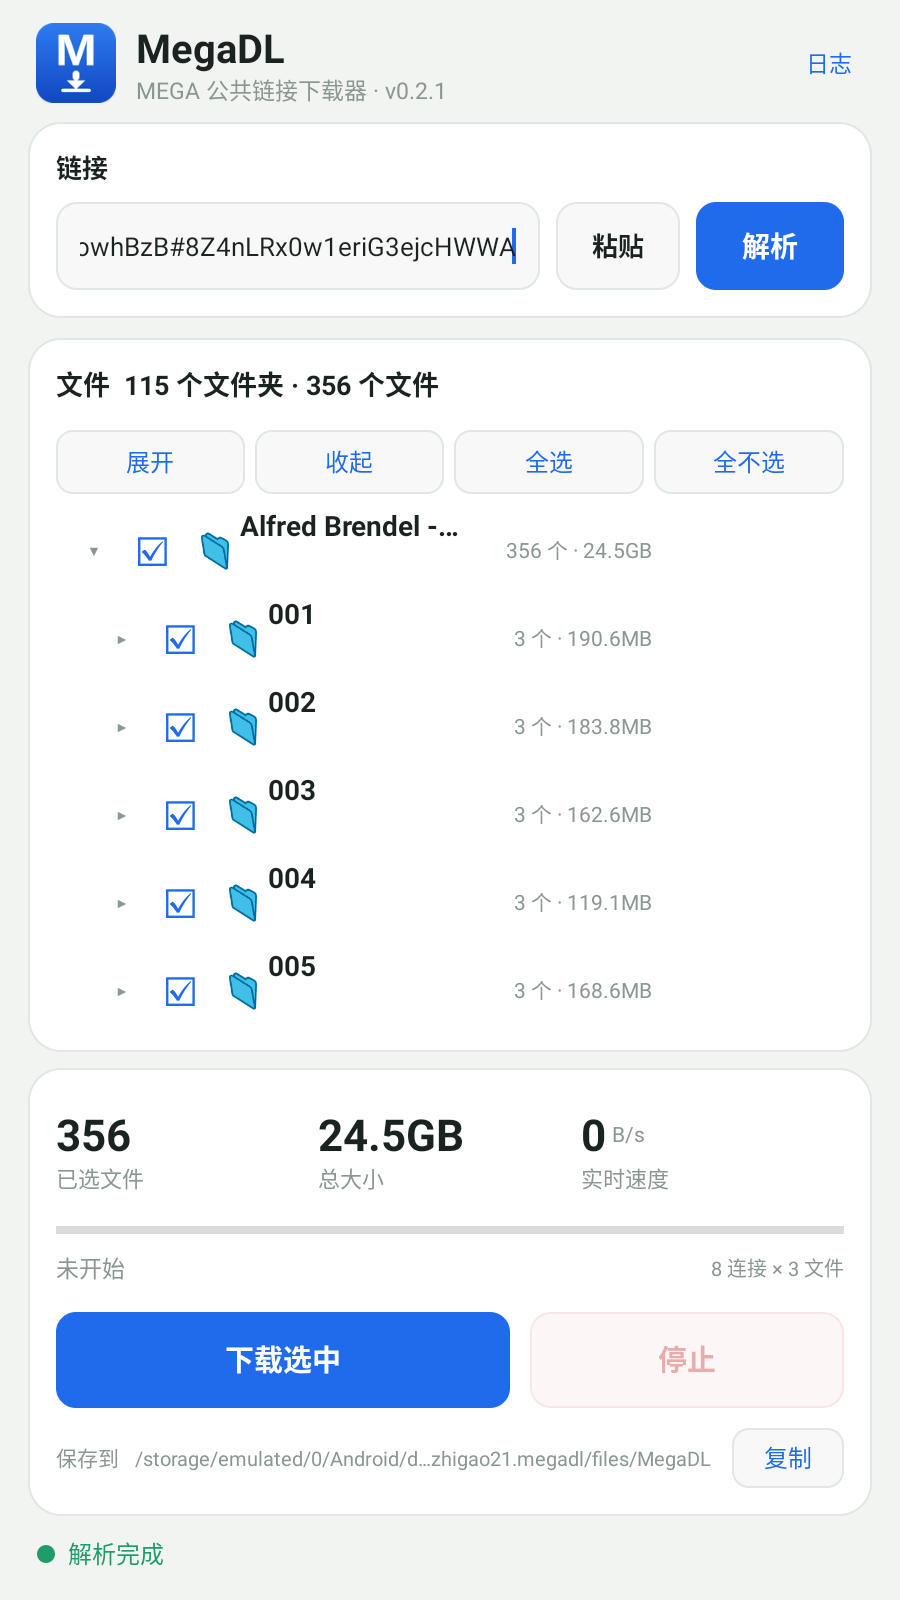
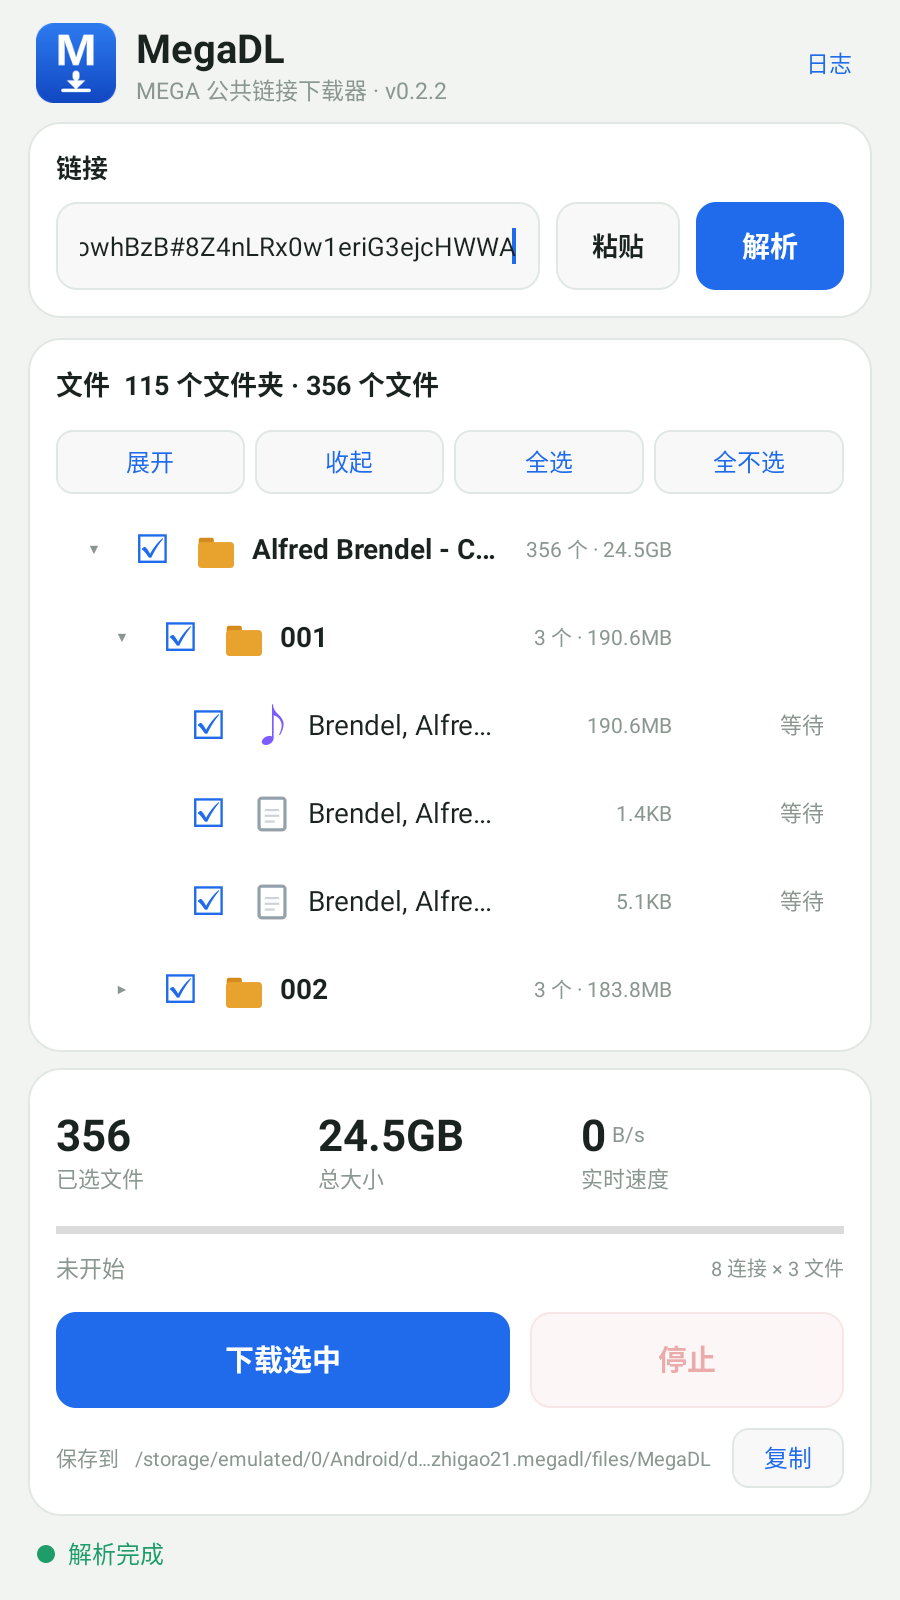
安卓界面 v0.2.2：自绘文件类型图标，修正文字对齐
弃用系统 emoji 图标（压缩包等字形在部分设备缺失），改为 Canvas 自绘文件夹/音频/视频/压缩包/图片/文档图标；TextView 关闭字体额外内边距并按行居中，文件名左移留出间距；大小与状态列再收窄，长文件名显示更完整。

diff --git a/android/src/com/weizhigao21/megadl/TreeAdapter.java b/android/src/com/weizhigao21/megadl/TreeAdapter.java
@@ -1,7 +1,11 @@
 package com.weizhigao21.megadl;
 
 import android.content.Context;
+import android.graphics.Canvas;
 import android.graphics.Color;
+import android.graphics.Paint;
+import android.graphics.Path;
+import android.graphics.RectF;
 import android.graphics.Typeface;
 import android.text.TextUtils;
 import android.view.Gravity;
@@ -105,7 +109,7 @@ public class TreeAdapter extends BaseAdapter {
         holder.arrow.setVisibility(node.dir ? View.VISIBLE : View.INVISIBLE);
         holder.check.setText(checkGlyph(node));
         holder.check.setTextColor(checkColor(node));
-        holder.icon.setText(iconFor(node));
+        holder.icon.setKind(iconKind(node));
         holder.name.setText(node.name);
         holder.name.setTypeface(Typeface.create("sans-serif", node.dir ? Typeface.BOLD : Typeface.NORMAL));
         holder.name.setTextColor(TEXT);
@@ -160,25 +164,26 @@ public class TreeAdapter extends BaseAdapter {
         h.check.setPadding(dp(2), 0, dp(2), 0);
         row.addView(h.check, new LinearLayout.LayoutParams(dp(36), dp(44)));
 
-        h.icon = textView(16, MUTED, false);
-        h.icon.setGravity(Gravity.CENTER);
-        row.addView(h.icon, new LinearLayout.LayoutParams(dp(26), dp(44)));
+        h.icon = new TypeIcon(context);
+        row.addView(h.icon, new LinearLayout.LayoutParams(dp(28), dp(44)));
 
         h.name = textView(14, TEXT, false);
         h.name.setSingleLine(true);
         h.name.setEllipsize(TextUtils.TruncateAt.END);
+        h.name.setGravity(Gravity.CENTER_VERTICAL);
         LinearLayout.LayoutParams nameLp = new LinearLayout.LayoutParams(0, dp(44), 1f);
+        nameLp.leftMargin = dp(4);
         row.addView(h.name, nameLp);
 
         h.size = textView(10.5f, MUTED, false);
         h.size.setGravity(Gravity.RIGHT | Gravity.CENTER_VERTICAL);
-        row.addView(h.size, new LinearLayout.LayoutParams(dp(92), dp(44)));
+        row.addView(h.size, new LinearLayout.LayoutParams(dp(84), dp(44)));
 
         h.state = textView(11, MUTED, false);
         h.state.setGravity(Gravity.RIGHT | Gravity.CENTER_VERTICAL);
         h.state.setSingleLine(true);
         h.state.setEllipsize(TextUtils.TruncateAt.END);
-        row.addView(h.state, new LinearLayout.LayoutParams(dp(86), dp(44)));
+        row.addView(h.state, new LinearLayout.LayoutParams(dp(76), dp(44)));
 
         return row;
     }
@@ -187,6 +192,7 @@ public class TreeAdapter extends BaseAdapter {
         TextView tv = new TextView(context);
         tv.setTextSize(size);
         tv.setTextColor(color);
+        tv.setIncludeFontPadding(false);
         if (bold) tv.setTypeface(Typeface.DEFAULT_BOLD);
         return tv;
     }
@@ -264,15 +270,14 @@ public class TreeAdapter extends BaseAdapter {
         }
     }
 
-    private String iconFor(MegaApi.Node node) {
-        if (node.dir) return "📁";
+    private String iconKind(MegaApi.Node node) {
+        if (node.dir) return TypeIcon.FOLDER;
         String lower = node.name.toLowerCase(java.util.Locale.US);
-        if (lower.endsWith(".mp3") || lower.endsWith(".flac") || lower.endsWith(".ape") || lower.endsWith(".wav")) return "🎵";
-        if (lower.endsWith(".mp4") || lower.endsWith(".mkv") || lower.endsWith(".avi")) return "🎬";
-        if (lower.endsWith(".zip") || lower.endsWith(".rar") || lower.endsWith(".7z")) return "🗜";
-        if (lower.endsWith(".jpg") || lower.endsWith(".png") || lower.endsWith(".webp")) return "🖼";
-        if (lower.endsWith(".txt") || lower.endsWith(".log") || lower.endsWith(".cue")) return "📄";
-        return "📄";
+        if (lower.endsWith(".mp3") || lower.endsWith(".flac") || lower.endsWith(".ape") || lower.endsWith(".wav")) return TypeIcon.AUDIO;
+        if (lower.endsWith(".mp4") || lower.endsWith(".mkv") || lower.endsWith(".avi")) return TypeIcon.VIDEO;
+        if (lower.endsWith(".zip") || lower.endsWith(".rar") || lower.endsWith(".7z")) return TypeIcon.ARCHIVE;
+        if (lower.endsWith(".jpg") || lower.endsWith(".png") || lower.endsWith(".webp")) return TypeIcon.IMAGE;
+        return TypeIcon.DOC;
     }
 
     private int dp(float v) {
@@ -283,9 +288,125 @@ public class TreeAdapter extends BaseAdapter {
         View spacer;
         TextView arrow;
         TextView check;
-        TextView icon;
+        TypeIcon icon;
         TextView name;
         TextView size;
         TextView state;
     }
+
+    /** 自绘类型图标，避免依赖系统 emoji 字体（部分机型压缩包等字形缺失）。 */
+    static class TypeIcon extends View {
+        static final String FOLDER = "folder";
+        static final String AUDIO = "audio";
+        static final String VIDEO = "video";
+        static final String ARCHIVE = "archive";
+        static final String IMAGE = "image";
+        static final String DOC = "doc";
+
+        private static final int C_FOLDER = Color.rgb(0xE8, 0xA2, 0x2E);
+        private static final int C_FOLDER_DARK = Color.rgb(0xD3, 0x8C, 0x1C);
+        private static final int C_DOC = Color.rgb(0x93, 0xA1, 0xAB);
+        private static final int C_AUDIO = Color.rgb(0x7C, 0x5C, 0xFF);
+        private static final int C_VIDEO = Color.rgb(0xDF, 0x5F, 0x58);
+        private static final int C_ARCHIVE = Color.rgb(0xA5, 0x77, 0x3D);
+        private static final int C_IMAGE = Color.rgb(0x2A, 0xA3, 0x6B);
+
+        private final Paint paint = new Paint(Paint.ANTI_ALIAS_FLAG);
+        private final Path path = new Path();
+        private final RectF rect = new RectF();
+        private final float d;
+        private String kind = DOC;
+
+        TypeIcon(Context context) {
+            super(context);
+            d = context.getResources().getDisplayMetrics().density;
+        }
+
+        void setKind(String k) {
+            if (!kind.equals(k)) {
+                kind = k;
+                invalidate();
+            }
+        }
+
+        @Override
+        protected void onDraw(Canvas canvas) {
+            float s = Math.min(d * 18f, Math.min(getWidth(), getHeight()) - d * 10f);
+            float left = (getWidth() - s) / 2f;
+            float top = (getHeight() - s) / 2f;
+
+            paint.setStyle(Paint.Style.FILL);
+            paint.setStrokeWidth(d * 1.6f);
+
+            if (FOLDER.equals(kind)) {
+                paint.setColor(C_FOLDER_DARK);
+                rect.set(left + s * 0.02f, top + s * 0.16f, left + s * 0.44f, top + s * 0.36f);
+                canvas.drawRoundRect(rect, s * 0.06f, s * 0.06f, paint);
+                paint.setColor(C_FOLDER);
+                rect.set(left, top + s * 0.28f, left + s, top + s);
+                canvas.drawRoundRect(rect, s * 0.1f, s * 0.1f, paint);
+            } else if (AUDIO.equals(kind)) {
+                paint.setColor(C_AUDIO);
+                paint.setStyle(Paint.Style.FILL);
+                paint.setTypeface(Typeface.DEFAULT);
+                paint.setTextSize(s * 1.2f);
+                paint.setTextAlign(Paint.Align.CENTER);
+                Paint.FontMetrics fm = paint.getFontMetrics();
+                canvas.drawText("♪", left + s / 2f, top + s / 2f - (fm.ascent + fm.descent) / 2f, paint);
+                paint.setTextAlign(Paint.Align.LEFT);
+            } else if (VIDEO.equals(kind)) {
+                paint.setColor(C_VIDEO);
+                paint.setStyle(Paint.Style.STROKE);
+                rect.set(left + s * 0.04f, top + s * 0.1f, left + s * 0.96f, top + s * 0.9f);
+                canvas.drawRoundRect(rect, s * 0.14f, s * 0.14f, paint);
+                paint.setStyle(Paint.Style.FILL);
+                path.reset();
+                path.moveTo(left + s * 0.38f, top + s * 0.32f);
+                path.lineTo(left + s * 0.38f, top + s * 0.68f);
+                path.lineTo(left + s * 0.7f, top + s * 0.5f);
+                path.close();
+                canvas.drawPath(path, paint);
+            } else if (ARCHIVE.equals(kind)) {
+                paint.setColor(C_ARCHIVE);
+                paint.setStyle(Paint.Style.STROKE);
+                rect.set(left + s * 0.06f, top + s * 0.12f, left + s * 0.94f, top + s * 0.94f);
+                canvas.drawRoundRect(rect, s * 0.1f, s * 0.1f, paint);
+                canvas.drawLine(left + s * 0.18f, top + s * 0.34f, left + s * 0.82f, top + s * 0.34f, paint);
+                canvas.drawLine(left + s * 0.5f, top + s * 0.34f, left + s * 0.5f, top + s * 0.82f, paint);
+                paint.setStyle(Paint.Style.FILL);
+                rect.set(left + s * 0.4f, top + s * 0.4f, left + s * 0.6f, top + s * 0.46f);
+                canvas.drawRect(rect, paint);
+                rect.set(left + s * 0.4f, top + s * 0.54f, left + s * 0.6f, top + s * 0.6f);
+                canvas.drawRect(rect, paint);
+                rect.set(left + s * 0.4f, top + s * 0.68f, left + s * 0.6f, top + s * 0.74f);
+                canvas.drawRect(rect, paint);
+            } else if (IMAGE.equals(kind)) {
+                paint.setColor(C_IMAGE);
+                paint.setStyle(Paint.Style.STROKE);
+                rect.set(left + s * 0.04f, top + s * 0.12f, left + s * 0.96f, top + s * 0.9f);
+                canvas.drawRoundRect(rect, s * 0.1f, s * 0.1f, paint);
+                paint.setStyle(Paint.Style.FILL);
+                path.reset();
+                path.moveTo(left + s * 0.14f, top + s * 0.78f);
+                path.lineTo(left + s * 0.42f, top + s * 0.42f);
+                path.lineTo(left + s * 0.62f, top + s * 0.66f);
+                path.lineTo(left + s * 0.74f, top + s * 0.56f);
+                path.lineTo(left + s * 0.88f, top + s * 0.78f);
+                path.close();
+                canvas.drawPath(path, paint);
+                canvas.drawCircle(left + s * 0.3f, top + s * 0.3f, s * 0.08f, paint);
+            } else {
+                paint.setColor(C_DOC);
+                paint.setStyle(Paint.Style.STROKE);
+                rect.set(left + s * 0.14f, top + s * 0.06f, left + s * 0.86f, top + s * 0.94f);
+                canvas.drawRoundRect(rect, s * 0.08f, s * 0.08f, paint);
+                paint.setStyle(Paint.Style.FILL);
+                paint.setColor(Color.rgb(0xC9, 0xD3, 0xD9));
+                canvas.drawRect(left + s * 0.3f, top + s * 0.36f, left + s * 0.7f, top + s * 0.42f, paint);
+                canvas.drawRect(left + s * 0.3f, top + s * 0.52f, left + s * 0.7f, top + s * 0.58f, paint);
+                canvas.drawRect(left + s * 0.3f, top + s * 0.68f, left + s * 0.58f, top + s * 0.74f, paint);
+            }
+        }
+    }
 }
+

diff --git a/android/src/com/weizhigao21/megadl/MainActivity.java b/android/src/com/weizhigao21/megadl/MainActivity.java
@@ -170,7 +170,7 @@ public class MainActivity extends Activity implements TreeAdapter.Host {
         LinearLayout titles = new LinearLayout(this);
         titles.setOrientation(LinearLayout.VERTICAL);
         titles.addView(label("MegaDL", 20, TEXT, true));
-        titles.addView(label("MEGA 公共链接下载器 · v0.2.1", 11.5f, MUTED, false));
+        titles.addView(label("MEGA 公共链接下载器 · v0.2.2", 11.5f, MUTED, false));
         header.addView(titles, lp(-2, -2, 1f, 0, 0, 0));
         TextView logBtn = action("日志", v -> showLogs());
         logBtn.setPadding(dp(10), dp(6), dp(10), dp(6));
@@ -738,3 +738,4 @@ public class MainActivity extends Activity implements TreeAdapter.Host {
         }
     }
 }
+

diff --git a/android/README.md b/android/README.md
@@ -49,6 +49,7 @@ adb shell am start -n com.weizhigao21.megadl/.MainActivity
 
 ## 版本
 
-v0.2.1 / versionCode 3，minSdk 24，targetSdk 34，仅申请 INTERNET 权限。
+v0.2.2 / versionCode 4，minSdk 24，targetSdk 34，仅申请 INTERNET 权限。
 下载服务器可能返回 `http://` 直链，清单里开启了 `usesCleartextTraffic`。
+
 
